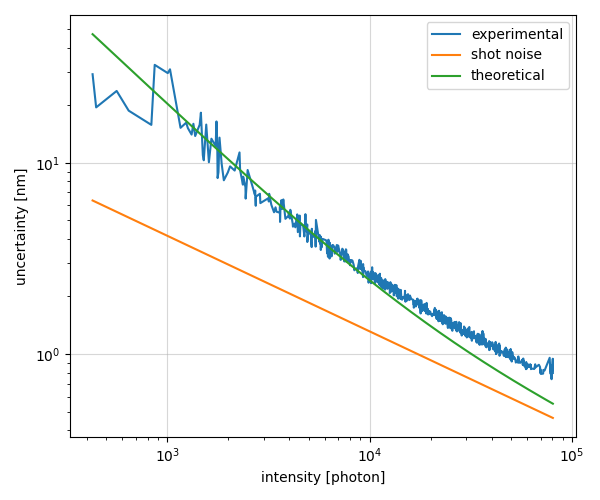
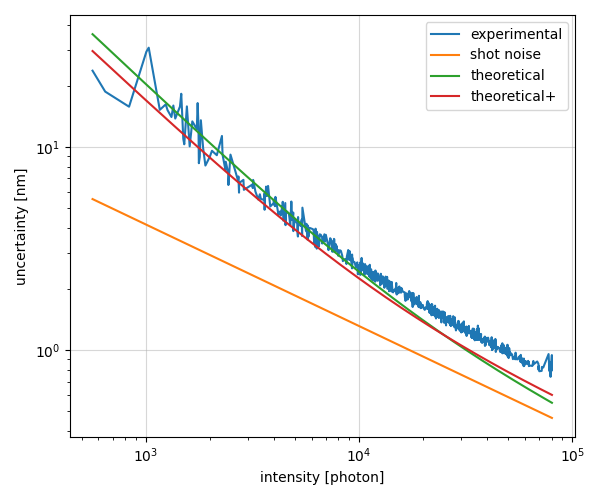
update

diff --git a/practical/src/loc.py b/practical/src/loc.py
@@ -1,23 +1,84 @@
 import numpy as np
 import pandas as pd
+from typing import Any
 import matplotlib.pyplot as plt
 
 
-def localization_0():
-    xname = "intensity [photon]"
-    yname = "uncertainty [nm]"
-    df = pd.read_csv("out/origami_0.csv").sort_values(
-        by = xname
+def signal_noise_ratio(s, a, b, ns):
+    s2 = s ** 2
+    s4 = s ** 4
+    a2 = a ** 2
+    b2 = b ** 2
+    ns2 = ns ** 2
+    return np.sqrt(
+        (s2 + a2 / 12) / ns +
+        (8 * np.pi * s4 * b2) / (a2 * ns2)
     )
-    # print(df)
-    print(df.columns)
+
+# def fit(xs, ys) -> tuple[float,float,Any]:
+#     (a, b), cov = np.polyfit(xs, ys, 1, full = False, cov = True)
+# 
+#     return a, b, cov
+
+
+# def fit(xs, ys, ns):
+#     (a, b, c), cov = np.polyfit(xs, ys, 2, full = False, cov = True)
+# 
+#     return a * (ns ** 2) + b * ns + c
+
+def fit(xs, ys, ns):
+    (a, b), cov = np.polyfit(xs, ys, 1, full = False, cov = True)
+
+    return a * ns + b
+
+
+def background_0(df: pd.DataFrame):
+    xname = "intensity [photon]"
+    yname = "bkgstd [photon]"
 
     fig, ax = plt.subplots(figsize = (6, 5), layout = "tight")
     ax.grid(alpha = 0.5)
     ax.set_xlabel(xname)
     ax.set_ylabel(yname)
-    ax.set_yscale("log")
+
+    xs = df[xname].to_numpy()
+    ys = df[yname].to_numpy()
+    ns = np.linspace(np.min(xs), np.max(xs), 200)
+    fs = fit(xs, ys, ns)
+    # a, b, cov = fit(xs, ys)
+    ax.scatter(
+        xs, ys,
+        s = 2,
+        color = "darkorange",
+        label = "experiment"
+    )
+    ax.plot(
+        ns, fs,
+        linewidth = 1.5,
+        color = "darkblue",
+        label = "linear fit"
+    )
+    # ax.axline(
+    #     xy1 = [0, b],
+    #     slope = a,
+    #     linewidth = 2,
+    #     color = "darkorange",
+    #     label = f"fit: $b={a*1e4:0.2f}\\cdot 10^{{-4}}N + {b:0.1f}$"
+    # )
+
+    ax.legend()
+    fig.savefig("img/bkg_0.png")
+
+def localization_0(df: pd.DataFrame):
+    xname = "intensity [photon]"
+    yname = "uncertainty [nm]"
+
+    fig, ax = plt.subplots(figsize = (6, 5), layout = "tight")
+    ax.grid(alpha = 0.5)
+    ax.set_xlabel(xname)
+    ax.set_ylabel(yname)
     ax.set_xscale("log")
+    ax.set_yscale("log")
 
     xs = df[xname].to_numpy()
     ys = df[yname].to_numpy()
@@ -29,16 +90,21 @@ def localization_0():
     ax.plot(ns, s / np.sqrt(ns), label = "shot noise")
 
     a = 160
-    b = df["bkgstd [photon]"].to_numpy().mean()
+    bs = df["bkgstd [photon]"].to_numpy()
+    b = bs.mean()
+    # bkg_slope, bkg_intercept, _ = fit(xs, bs)
+    # theoretical_bs = bkg_slope * ns + bkg_intercept
+    theoretical_bs = fit(xs, bs, ns)
 
     ax.plot(
-        ns, np.sqrt(
-            (s ** 2 + a ** 2 / 12) / ns +
-            (8 * np.pi * (s ** 4) * (b ** 2)) / (
-                (a ** 2) * (ns ** 2)
-            )
-        ),
+        ns,
+        signal_noise_ratio(s, a, b, ns),
         label = "theoretical"
+    )
+    ax.plot(
+        ns,
+        signal_noise_ratio(s, a, theoretical_bs, ns),
+        label = "theoretical+"
     )
 
     ax.legend()
@@ -46,4 +112,9 @@ def localization_0():
 
 
 if __name__ == "__main__":
-    localization_0()
+    df1 = pd.read_csv("out/origami_1.csv").sort_values(
+        by = "intensity [photon]"
+    )
+
+    background_0(df1)
+    localization_0(df1)